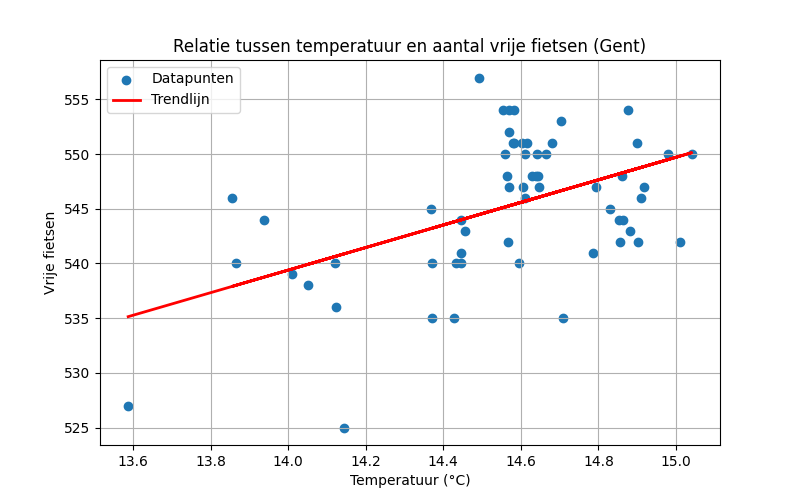
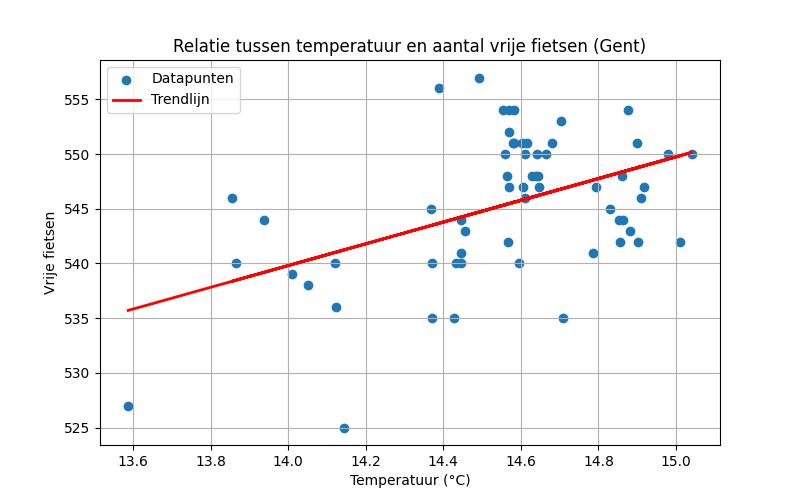
Automatische update 2025-11-15 00:45:08

diff --git a/reports/report.md b/reports/report.md
@@ -1,6 +1,6 @@
 # Data Workflow Rapport
 
-**Gegenereerd op:** 2025-11-15 00:42:06.774512
+**Gegenereerd op:** 2025-11-15 00:45:07.380840
 
 ## Grafiek: Vrije fietsen vs Temperatuur
 ![Fietsen vs Temp](reports/fiets_vs_temp.png)
@@ -10,7 +10,7 @@
 - Gemiddeld aantal vrije fietsen: 545
 - Gemiddeld aantal fietsen overdag (7-19u): 543
 - Gemiddeld aantal fietsen ’s nachts (19-7u): 547
-- Correlatie: 0.51
+- Correlatie: 0.48
 
 ## Vrije fietsen per weekdag
 
@@ -21,7 +21,7 @@
 | Woensdag | nan | nan | nan |
 | Donderdag | 525.0 | 550.0 | 535.0 |
 | Vrijdag | 535.0 | 557.0 | 545.0 |
-| Zaterdag | 547.0 | 554.0 | 550.0 |
+| Zaterdag | 547.0 | 556.0 | 550.0 |
 | Zondag | nan | nan | nan |
 
 ---
